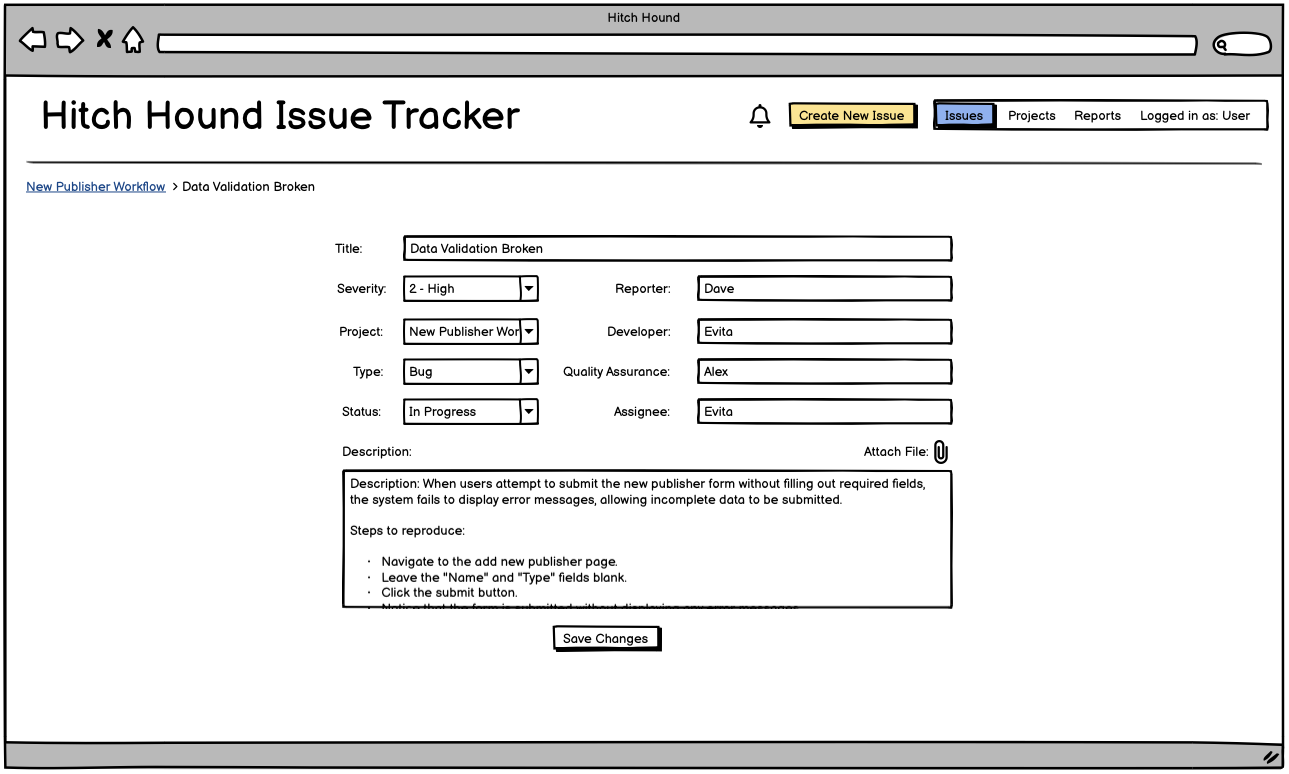
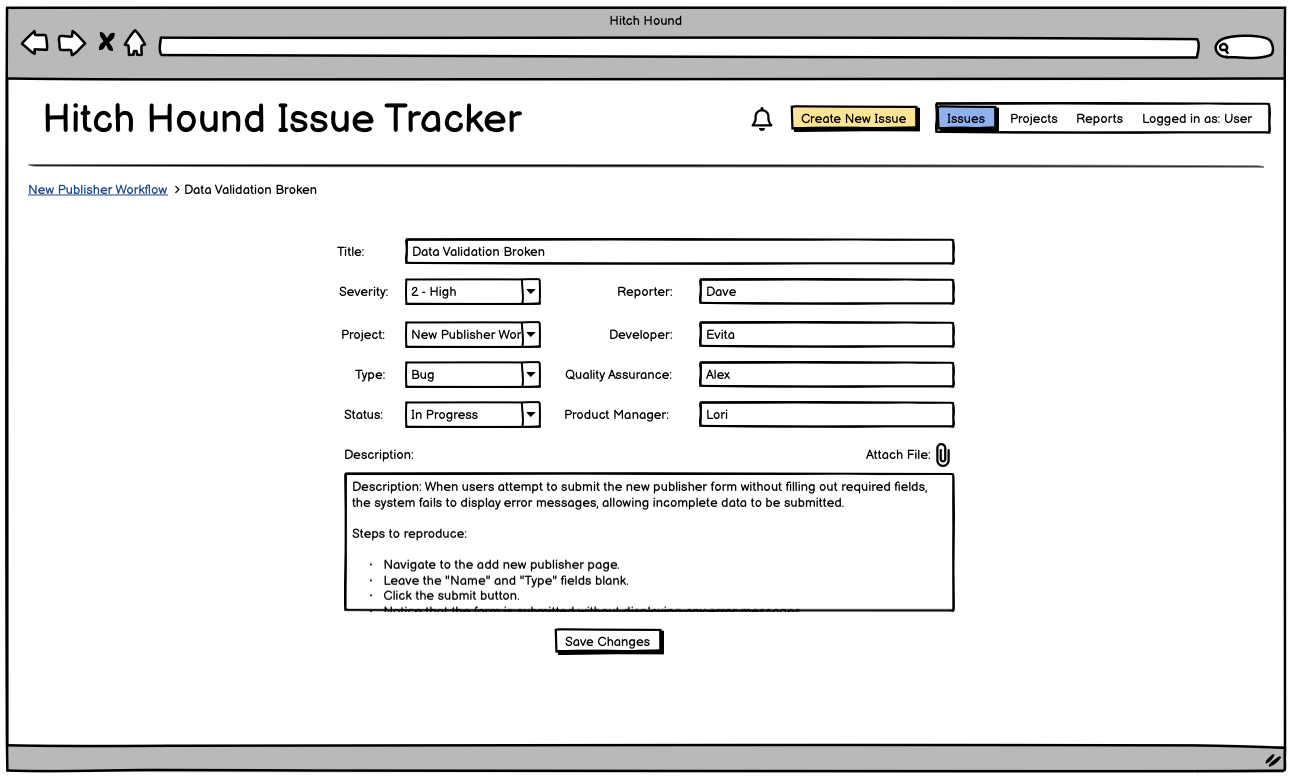
Add user journeys and mobile wireframes to README

diff --git a/README.md b/README.md
@@ -14,14 +14,16 @@ Automated testing is done with Jest (JavaScript) and Unittest (Python).
     b. [Data and Security features](#data-and-security-features)<br>
     c. [Epics and User Stories](#epics-and-user-stories) <br>
     d. [User Journeys](#user-journeys) <br>
+    e. [User Permissions](#user-permissions)<br>
 3. [Data Design](#data) <br>
     a. [Database Schema](#database-schema) <br>
     b. [Data Manipulation](#data-manipulation) <br>
     c. [Data Validation](#data-validation) <br>
 4. [User Interface Design](#user-interface-design) <br>
-    a. [Wireframes](#wireframes) <br>
-    b. [Colour Scheme](#colour-scheme) <br>
-    c. [Icons](#icons) <br>
+    a. [Computer Wireframes](#computer-wireframes)<br>
+    b. [Mobile Wireframes](#mobile-wireframes)<br>
+    c. [Colour Scheme](#colour-scheme) <br>
+    d. [Icons](#icons) <br>
 5. [Testing](#testing) <br>
     a. [Test Plan](#test-plan) <br>
     b. [Automated Testing](#automated-testing) <br>
@@ -91,6 +93,66 @@ Epic 6: Reporting
  
 ### User Journeys
 
+As a lightweight issue tracking program, my goal was to make each user journey as simple as possible with the fewest steps, whilst still providing value and flexibility of working method. There are therefore five basic user journeys: 
+
+1. New User
+```mermaid
+flowchart LR
+    A[Navigate to Hitch Hound] --> B[Enter details on Sign Up form]
+    B --> C[Click Sign Up button]
+    C --> D[Log in with email and password]
+```
+
+2. Create an Issue
+```mermaid
+flowchart LR
+    A[Log In] --> B[Click 'Create New Issue' button]
+    B --> C[Fill in New Issue form]
+    C --> D[Click 'Submit New Issue' button]
+```
+
+3. Browse Issues
+```mermaid
+flowchart TD
+    A[Log In] --> B[Click 'Issues' in\n the navigation bar]
+    A --> C[Click 'Projects' in\n the navigation bar]
+    A --> D[Click 'Reports' in \nthe navigation bar]
+    A --> E[Click on User Profile\n in the navigation bar]
+    B --> F[Scroll through issues\nand click through pages]
+    C --> G[Click 'View All Issues'\nbutton next to the \ndesired project]
+    D --> H[Click on 'Issue Listing \nby Status' button]
+    H --> I[Select status in dropdown]
+    E --> J[Scroll through issues\n and click through pages]
+```
+4. Close an Issue
+```mermaid
+flowchart LR
+    A[Log In] --> B[Navigate to an issue as per\n 'Browse Issues' user journey]
+    B --> C[Set status to 'Closed'\n or 'Cancelled']
+    C --> D[Click 'Save Changes']
+```
+5. Generate Reports
+```mermaid
+flowchart LR
+    A[Log In] --> B[Click on 'Reports' in\nthe navigation bar]
+    B --> C[Click on one of the\n available report buttons]
+    C --> D[Adjust settings as needed\n with dropdowns provided]
+```
+### User Permissions
+
+There are four types of user, each with different permissions.
+
+| Type | Can create issue? | Can change status to | Can close issue?| Can access admin panel? |
+|---|---|---|---|---|
+| **Role Based** |
+| --> Developer | Yes | In-Progress | No | No |
+| --> Quality Assurance | Yes | Testing | No | No |
+| --> Product Manager | Yes | Approved |Yes | No |
+| **Secondary** |
+| --> Superuser | Yes | Any | Yes | Yes |
+
+Each user *must* be assigned a role-based type and *may* also be assigned the superuser type additionally. 
+
 ## Data Design
 
 ### Database Schema 
@@ -101,9 +163,9 @@ Epic 6: Reporting
 
 ## User Interface Design
 
-### Wireframes
+### Computer Wireframes
 
-The wireframes I created illustrate the core user interface and functionality of Hitch Hound. These visual guides serve as a blueprint for the design and structure of the application, ensuring a cohesive and intuitive user experience. These are not mobile-first because this type of program is more likely to be accessed from a desktop or laptop computer. The pages will however be fully responsive.
+The wireframes I created illustrate the core user interface and functionality of Hitch Hound from both a desktop/laptop perspective and a mobile/tablet perspective. These visual guides serve as a blueprint for the design and structure of the application, ensuring a cohesive and intuitive user experience. 
 
 #### Home: Sign Up
 
@@ -121,9 +183,11 @@ The wireframes I created illustrate the core user interface and functionality of
 
 ![individualissue](documentation/individualissue.png)
 
+
 #### New Issue
 
 ![newissue](documentation/newissue.png)
+
 
 #### Projects
 
@@ -133,17 +197,49 @@ The wireframes I created illustrate the core user interface and functionality of
 
 ![individualproject](documentation/individualproject.png)
 
+
 #### Reports
 
 ![reports](documentation/reports.png)
+
 
 #### User Profile
 
 ![userprofile](documentation/userprofile.png)
 
+
 #### Notification Modal
 
 ![notificationmodal](documentation/notificationmodal.png)
+
+### Mobile Wireframes
+
+#### Home: Sign Up and Log In
+
+![signupmobile](documentation/signupmobile.png)
+![loginmobile](documentation/loginmobile.png)
+
+#### Home: All Issues
+
+![loggedinmobile](documentation/loggedinmobile.png)
+
+#### Issues
+
+![individualissuemobile](documentation/individualissuemobile.png)
+![newissuemobile](documentation/newissuemobile.png)
+
+#### Projects
+
+![projectsmobile](documentation/projectsmobile.png)
+![individualprojectmobile](documentation/individualprojectmobile.png)
+
+#### Reports
+
+![reportsmobile](documentation/reportsmobile.png)
+
+#### User Profile and Notifications
+![userprofilemobile](documentation/userprofilemobile.png)
+![notificationmobile](documentation/notificationsmobile.png)
 
 ### Colour Scheme 
 
